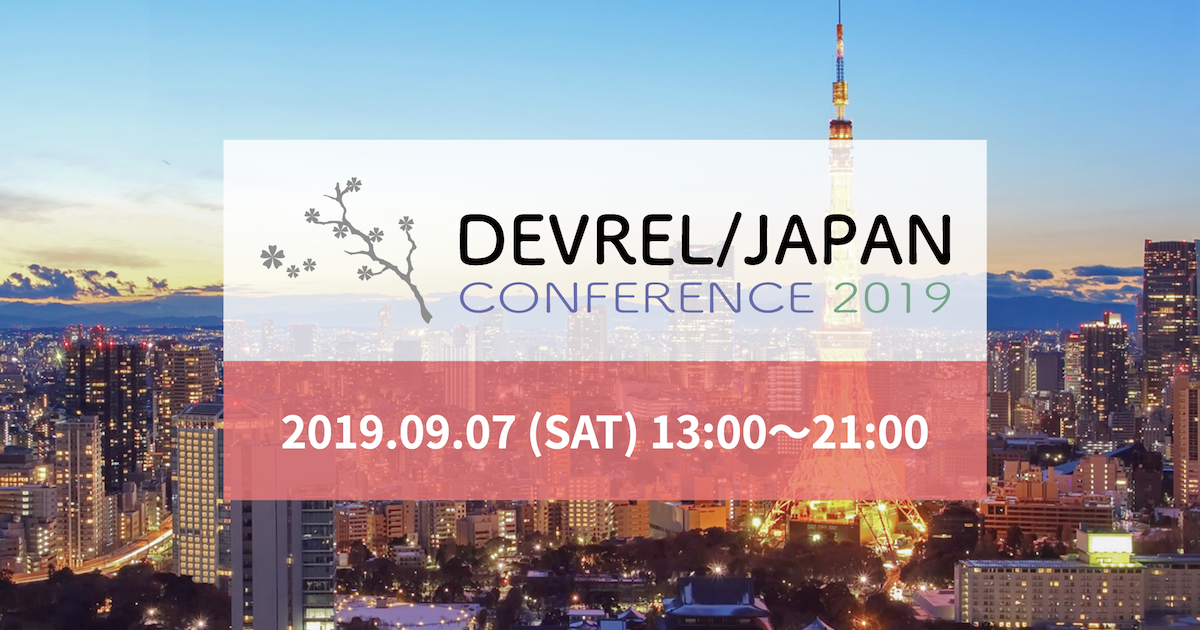
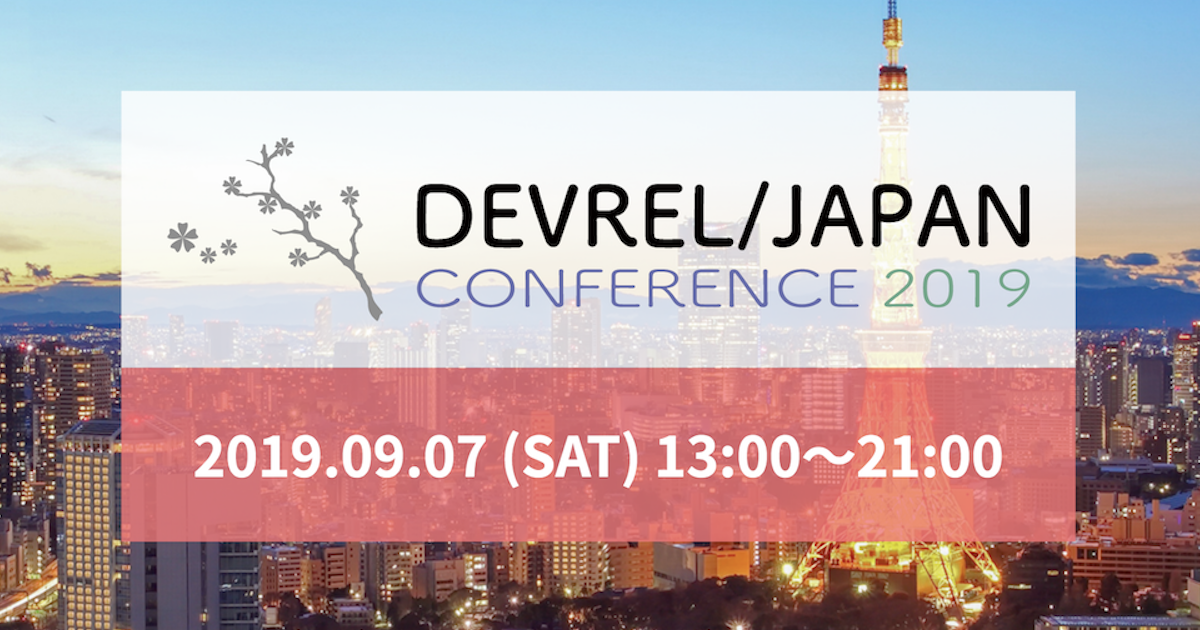
Fixed conference title and ogp image.

diff --git a/README.md b/README.md
@@ -1,4 +1,4 @@
-# DevRel/Japan 公式ウェブサイト
+# DevRel/Japan Conference 公式ウェブサイト
 
 ## Getting started
 
